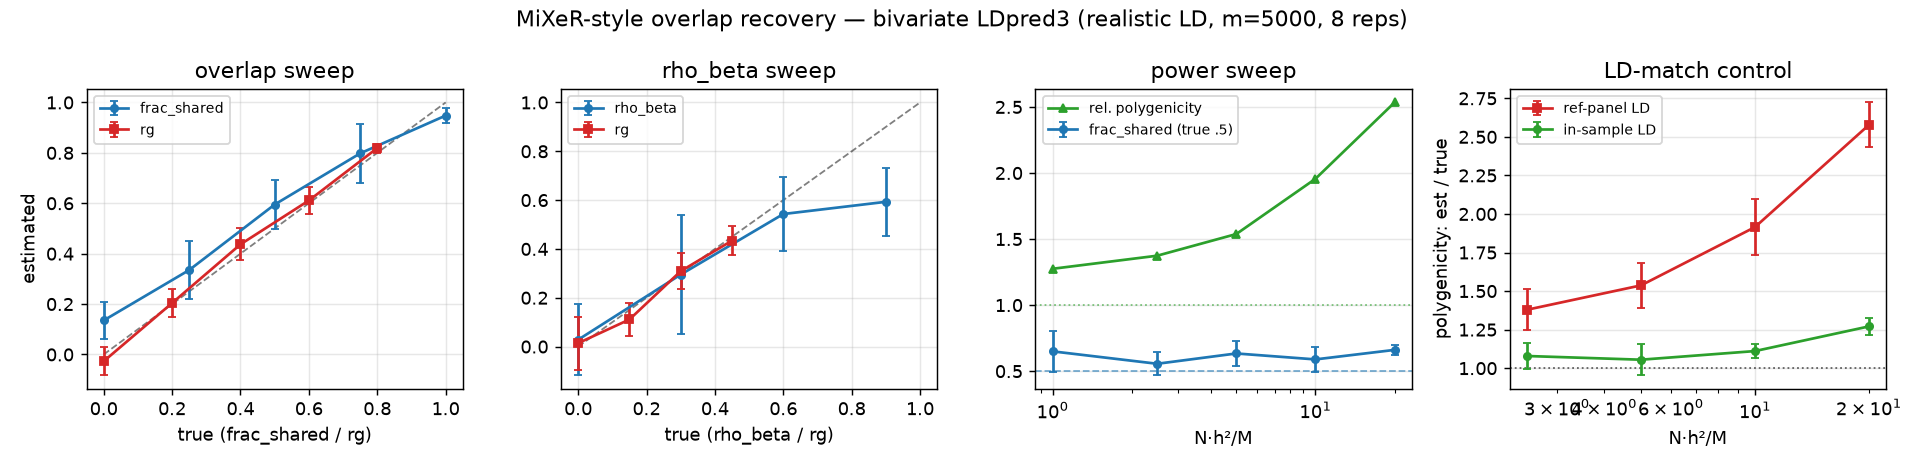
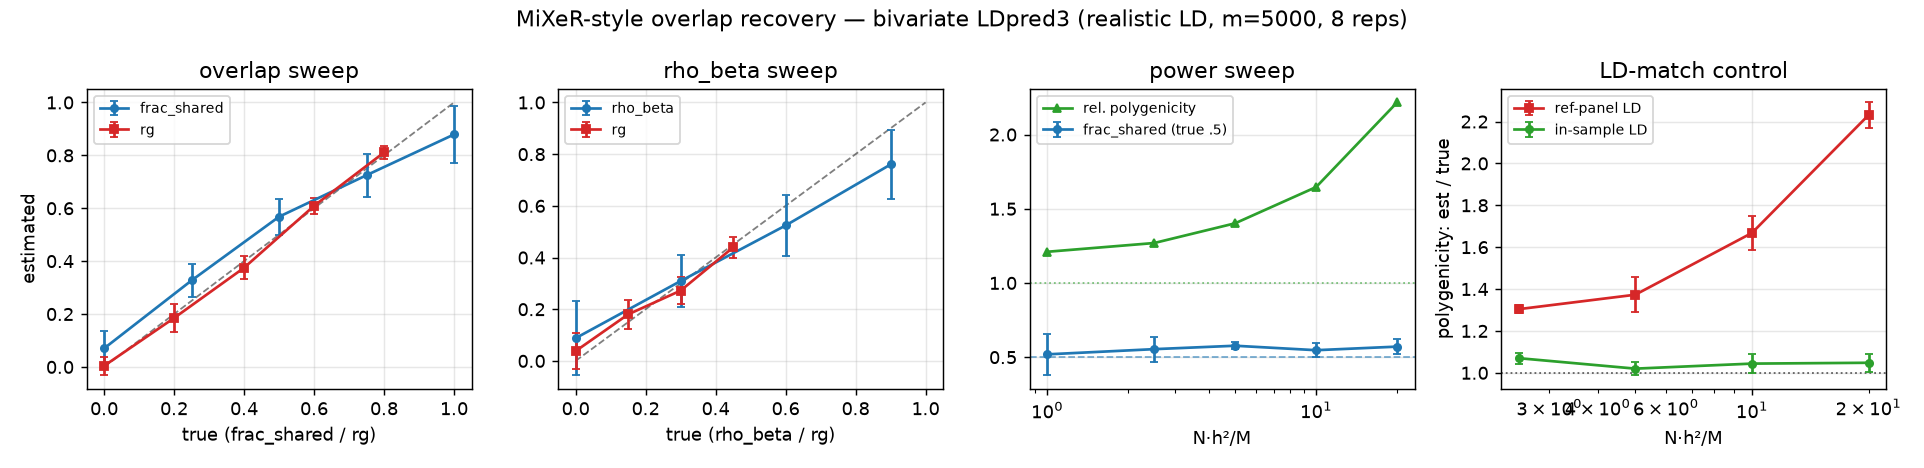
Benchmark on better-conditioned realistic LD; document count-calibration finding
The rg-benchmark LD (rg_architectures) crammed 200 SNPs into a 0.6 Mb segment
(~0.03 cM), producing a pathologically rank-deficient block (eff_rank ~7/200,
numerical rank ~122/200, near-singular) — not representative of real reference
panels. Switch to a 5 Mb segment at mut=5e-9, which spans more recombination and
gives a realistic, far better-conditioned block (eff_rank ~22/200, rank
~174/200) while keeping realistic LD (r^2 decay + haplotype blocks + a redundancy
tail). LD heatmap / eigen-spectrum / r^2-decay diagnostics guided the choice.

This settles the polygenic-overlap count-bias question:
- The absolute-count over-estimation is a point-normal-on-rank-deficient-LD
  effect, governed by LD *conditioning* (small-eigenvalue magnitude), NOT
  effective rank, and is IDENTICAL for univariate ldpred3_auto_infer and the
  bivariate fit (so it is not a bivariate defect, and univariate anchoring does
  not debias). Consistent with ldpred3's own univariate benchmark (p 0.2->0.29).
- On the new LD the reference-panel count runs ~1.2x (Nh2/M=2) to ~2.2x
  (Nh2/M=20); noise_inflation cuts it to ~1.1-1.3x with h2/rg unchanged;
  mixer_posterior gives the credible interval; the r_g and overlap ratios cancel
  the bias and stay reliable throughout.

docs/rg.md: rewrite the polygenic-overlap section with the conditioning finding
and the locked-in calibration numbers; refresh the across-architectures accuracy
[…]

diff --git a/benchmarks/rg_architectures.py b/benchmarks/rg_architectures.py
@@ -41,8 +41,15 @@ N_POP = 10000                         # sample for the "population" block LD
 NREF = 4000                           # reference-panel size (finite, noisy)
 N1, N2 = 50000, 20000                 # per-trait GWAS sizes
 H2 = 0.5
-SEG_LEN = float(os.environ.get("SEG_LEN", "0.6e6"))    # per-segment length
-MUT_RATE = float(os.environ.get("MUT_RATE", "4e-8"))   # SNP density (raise for
+# Per-segment length + SNP density. A longer segment spans more recombination, so
+# the K-SNP block is far better conditioned (less pathologically rank-deficient)
+# while keeping realistic LD (r^2 decay + haplotype blocks + a redundancy tail):
+# 5 Mb / mut=5e-9 gives eff_rank ~26/200 and numerical rank ~173/200, vs the old
+# 0.6 Mb / mut=4e-8 which crammed the SNPs into ~0.03 cM (eff_rank ~7/200, rank
+# ~122/200 -- near-singular). Real reference panels are rank-deficient too, but
+# not that severely; see benchmarks discussion of LD conditioning.
+SEG_LEN = float(os.environ.get("SEG_LEN", "5e6"))      # per-segment length (5 Mb)
+MUT_RATE = float(os.environ.get("MUT_RATE", "5e-9"))   # SNP density (raise for
 #                                                        larger K per block -> larger m)
 SHRINK = 0.05                         # ref-LD shrinkage toward I (sampler stability)
 REPS = int(os.environ.get("REPS", "10"))

diff --git a/benchmarks/mixer_overlap.py b/benchmarks/mixer_overlap.py
@@ -30,7 +30,10 @@ replicates on fixed genotypes:
     ``mixer_posterior`` credible interval covers the true causal count.
 
 The first three sweeps also record the **relative** polygenicity (pi_hat /
-pi_true) to quantify the known absolute under-estimation of point-normal mixtures.
+pi_true). On realistic (rank-deficient / ill-conditioned) LD the point-normal
+count is *over*-estimated and the inflation grows with N; this is governed by LD
+conditioning (not effective rank) and is identical for univariate and bivariate
+fits (see the ``calibration`` sweep, ``noise_inflation``, and docs/rg.md).
 
     OPENBLAS_NUM_THREADS=1 OMP_NUM_THREADS=1 python benchmarks/mixer_overlap.py
 

diff --git a/docs/rg.md b/docs/rg.md
@@ -30,11 +30,11 @@ variants with bivariate-normal effects, both traits h²=0.5). The LD here is
 
 | architecture | bivariate LDSC | bivariate LDpred3 |
 |--------------|:--------------:|:-----------------:|
-| infinitesimal | 0.02 ± 0.11 / 0.40 ± 0.10 / 0.80 ± 0.03 | −0.00 ± 0.07 / 0.39 ± 0.07 / 0.79 ± 0.02 |
-| sparse (p=0.01) | −0.02 ± 0.22 / 0.35 ± 0.22 / 0.84 ± 0.08 | 0.03 ± 0.10 / 0.36 ± 0.20 / 0.81 ± 0.05 |
-| moderate (p=0.05) | 0.02 ± 0.14 / 0.31 ± 0.12 / 0.79 ± 0.05 | 0.01 ± 0.08 / 0.38 ± 0.10 / 0.78 ± 0.03 |
-| polygenic (p=0.2) | 0.00 ± 0.09 / 0.41 ± 0.10 / 0.82 ± 0.06 | 0.02 ± 0.08 / 0.41 ± 0.07 / 0.81 ± 0.04 |
-| major locus | −0.01 ± 0.37 / 0.28 ± 0.30† / 0.81 ± 0.08 | 0.05 ± 0.23 / 0.32 ± 0.25 / 0.79 ± 0.05 |
+| infinitesimal | 0.06 ± 0.08 / 0.39 ± 0.11 / 0.80 ± 0.03 | 0.01 ± 0.03 / 0.40 ± 0.04 / 0.79 ± 0.02 |
+| sparse (p=0.01) | 0.02 ± 0.22 / 0.37 ± 0.26† / 0.65 ± 0.17 | 0.04 ± 0.08 / 0.41 ± 0.20 / 0.80 ± 0.03 |
+| moderate (p=0.05) | 0.02 ± 0.13 / 0.37 ± 0.08 / 0.77 ± 0.04 | 0.04 ± 0.08 / 0.38 ± 0.05 / 0.78 ± 0.03 |
+| polygenic (p=0.2) | 0.02 ± 0.08 / 0.40 ± 0.08 / 0.79 ± 0.04 | 0.00 ± 0.05 / 0.40 ± 0.04 / 0.80 ± 0.02 |
+| major locus | 0.14 ± 0.38† / 0.29 ± 0.24 / 0.76 ± 0.07 | 0.07 ± 0.16 / 0.33 ± 0.23 / 0.77 ± 0.04 |
 
 (± is the across-replicate SD over the in-range reps; † marks cells where one of
 the ten LDSC reps diverged and was excluded.)
@@ -51,13 +51,13 @@ the ten LDSC reps diverged and was excluded.)
   (its noisy regime on sparse / major-locus traits) the ratio **blows up** — a
   handful of reps here returned values in the hundreds and had to be excluded
   (the † cells). The bivariate sampler, which models the joint effect covariance
-  directly, **never diverged**: on major-locus at r_g=0.6 it gives 0.56 ± 0.13
-  where LDSC's surviving reps scatter 0.32 ± 0.61.
+  directly, **never diverged**: on major-locus at r_g=0.6 it gives 0.59 ± 0.11
+  where LDSC's surviving reps scatter 0.48 ± 0.20.
 - **Running time & memory.** Per fit on this genome (m=5000, 25 blocks, single
-  core): bivariate **LDSC ~22 ms**, bivariate **LDpred3 ~0.52 s** (0.44–0.63 s
-  across architectures) at a **0.22 GB** peak RSS. So the sampler's precision and
-  robustness cost ~25× LDSC's time but stay sub-second and light — LDSC remains
-  the instant screen, LDpred3 the accurate estimate.
+  core): bivariate **LDSC ~25 ms**, bivariate **LDpred3 ~0.23 s** at a **0.27 GB**
+  peak RSS. So the sampler's precision and robustness cost ~9× LDSC's time but
+  stay sub-second and light — LDSC remains the instant screen, LDpred3 the
+  accurate estimate.
 
 For a quick first pass, a **marginal** (no-LD) r_g — the moment estimator that
 assumes independent SNPs — is already reasonable (unlike a marginal h², which is
@@ -96,17 +96,47 @@ the denominator with `h²` *fails*) is in
 The bivariate fit's four-state mixture also yields the quantities MiXeR reports —
 the shared-causal fraction, the within-shared effect correlation `ρ_β` and the
 decomposition `r_g = ρ_β·π₁₁/√(π₁π₂)` — exposed as `res.mixer` (see
-[algorithm.md](algorithm.md#bivariate-two-trait-ldpred3)). The overlap fraction
-and `r_g` decomposition are reliable; absolute polygenicity is under-calibrated
-(dominated by LD-reference mismatch) and should be read as relative
-(`benchmarks/mixer_overlap.py`).
+[algorithm.md](algorithm.md#bivariate-two-trait-ldpred3)). The overlap **ratios**
+(`frac_shared`, `ρ_β`, `rg_from_overlap`) are reliable; the **absolute counts**
+(`n_causal`, `n_shared`) are over-estimated on realistic LD and should be read as
+relative unless calibrated (`benchmarks/mixer_overlap.py`, `calibration` sweep).
 
-To put the absolute counts (`n_causal`, `n_shared`) on a calibrated scale, run
-univariate `ldpred3.ldpred3_auto_infer` on each trait and pass the two results to
-`res.mixer_calibrated(infer1, infer2)`: it keeps the joint fit's reliable ratios
-(`frac_shared`, `ρ_β`) but rebuilds the counts on the univariate learned
-polygenicities. Full detail and the benchmark are in
-[algorithm.md](algorithm.md#bivariate-two-trait-ldpred3).
+### Absolute counts and LD conditioning
+
+The absolute-count bias is **not** a bivariate defect and **not** a fundamental
+identifiability wall — it is a property of the point-normal model fit on
+**rank-deficient LD**, and it is *identical* for univariate `ldpred3_auto_infer`
+and the bivariate fit (so `mixer_calibrated`'s univariate anchoring does not
+actually debias — the anchor carries the same bias). What we learned
+benchmarking it against known truth:
+
+- **Realistic (coalescent) LD is rank-deficient / ill-conditioned** — perfectly-
+  and near-perfectly-correlated SNP pairs give near-zero eigenvalues, exactly as
+  real reference panels do (which is why LDpred pipelines shrink/QC the LD). On
+  such LD the point-normal causal-state count over-estimates the true number of
+  causal variants, and the over-estimation **grows with N** (power). On this
+  benchmark's LD the reference-panel count runs ~1.2× at `N·h²/M = 2` up to
+  ~2.2× at `N·h²/M = 20`.
+- **It is governed by LD conditioning** (the magnitude of the smallest
+  eigenvalues), *not* by effective rank: a redundant but well-conditioned LD is
+  calibrated, a near-singular one is not. Consistent with ldpred3's own
+  univariate benchmark (`p`: 0.2→0.29, 0.01→0.014). So "unbiased polygenicity"
+  holds in the well-conditioned regime; on realistic LD the counts are mildly
+  inflated and should be read as relative.
+- **Two levers.** (a) `noise_inflation=True` learns a per-trait
+  LDSC-intercept-style `λ` that removes the **LD-reference-mismatch** component of
+  the inflation (the extra from fitting a finite reference panel), bringing the
+  ref-panel count from ~2.2× to ~1.3× at `N·h²/M = 20` with `h²`/`r_g` unchanged.
+  (b) `res.mixer_posterior()` gives the posterior **credible interval** for each
+  count (calibrated and covers the truth when the LD matches; see below).
+- **The `r_g` and the overlap ratios cancel this bias** and stay reliable
+  throughout (`rg_off ≈ rg_on ≈ 0.4` across the whole power sweep above).
+
+`res.mixer_calibrated(infer1, infer2)` still exists (it rebuilds the counts on
+two univariate `ldpred3.ldpred3_auto_infer` polygenicities while keeping the joint
+ratios), but note the caveat above: the univariate anchor shares the same
+LD-conditioning bias, so prefer `noise_inflation` + good LD (shrinkage / QC) for
+absolute counts, and lean on the ratios otherwise.
 
 ## Handling sample overlap
 